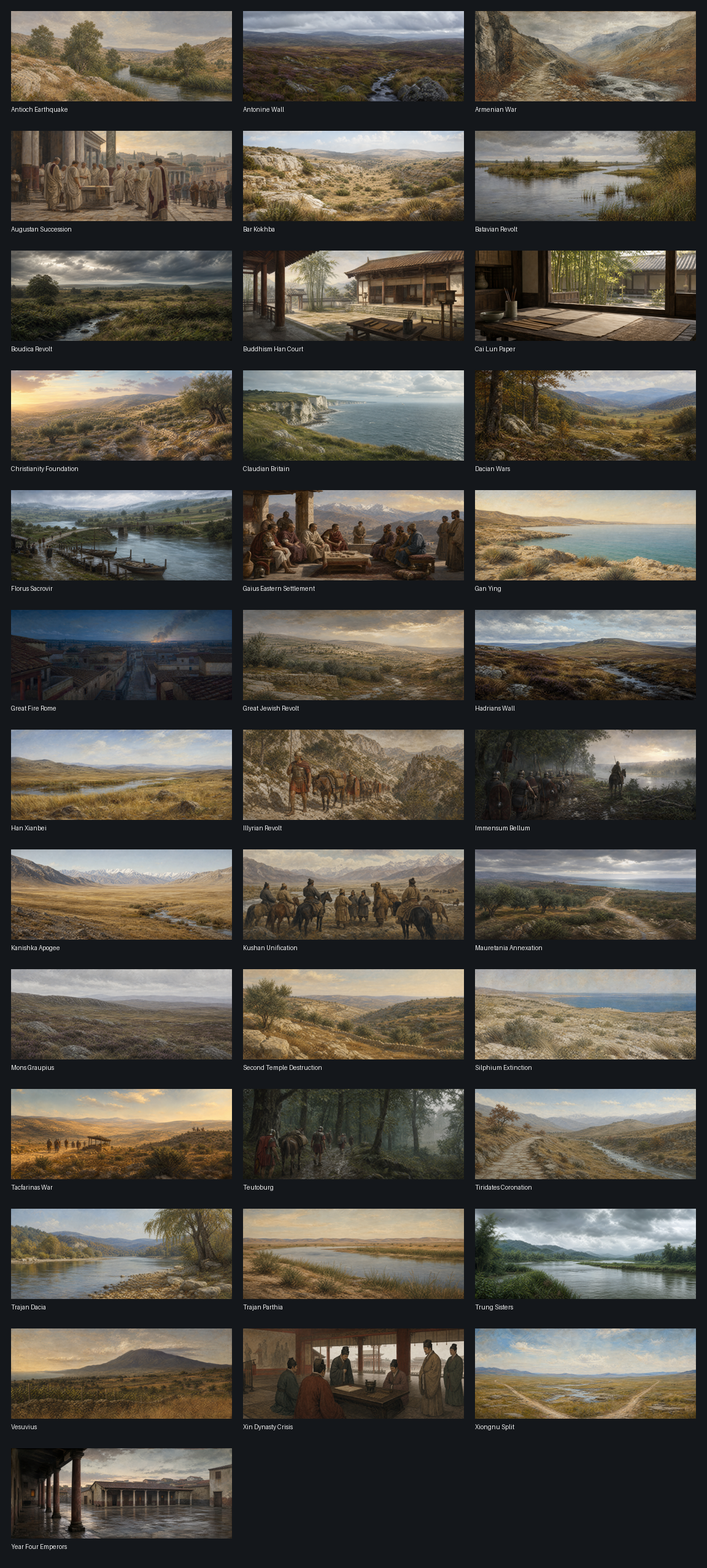
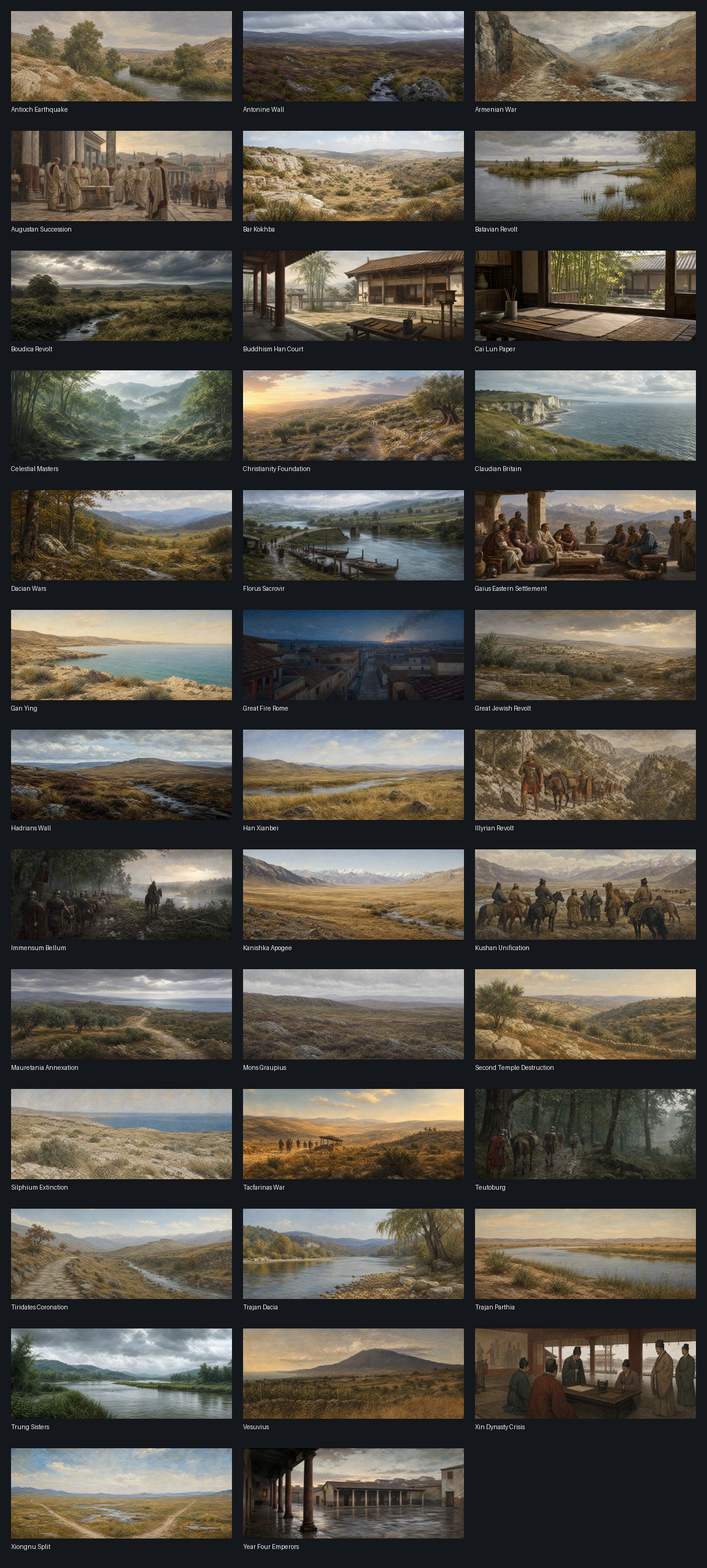
docs(m11): record Celestial Masters art

diff --git a/docs/m11/contact_sheet.html b/docs/m11/contact_sheet.html
@@ -9,6 +9,7 @@
     <figure><img src="../../assets_queue/generated/antq_boudica_revolt_1080x440.png" alt="Boudica Revolt"><figcaption>Boudica Revolt</figcaption></figure>
     <figure><img src="../../assets_queue/generated/antq_buddhism_han_court_1080x440.png" alt="Buddhism Han Court"><figcaption>Buddhism Han Court</figcaption></figure>
     <figure><img src="../../assets_queue/generated/antq_cai_lun_paper_1080x440.png" alt="Cai Lun Paper"><figcaption>Cai Lun Paper</figcaption></figure>
+    <figure><img src="../../assets_queue/generated/antq_celestial_masters_1080x440.png" alt="Celestial Masters"><figcaption>Celestial Masters</figcaption></figure>
     <figure><img src="../../assets_queue/generated/antq_christianity_foundation_1080x440.png" alt="Christianity Foundation"><figcaption>Christianity Foundation</figcaption></figure>
     <figure><img src="../../assets_queue/generated/antq_claudian_britain_1080x440.png" alt="Claudian Britain"><figcaption>Claudian Britain</figcaption></figure>
     <figure><img src="../../assets_queue/generated/antq_dacian_wars_1080x440.png" alt="Dacian Wars"><figcaption>Dacian Wars</figcaption></figure>

diff --git a/docs/TODO.md b/docs/TODO.md
@@ -225,7 +225,8 @@ after `make full` and its autonomous driver report are green.
 - [x] Generate, dimension-check, round-trip review, wire, and smoke-test the AD 127 Kanishka-apogee event illustration through a landscape-only Central-Asian highland treatment.
 - [x] Generate, dimension-check, round-trip review, wire, and smoke-test the AD 132 Bar Kokhba revolt event illustration through a landscape-only Judean limestone treatment.
 - [x] Generate, dimension-check, round-trip review, wire, and smoke-test the AD 142 Antonine Wall event illustration through a landscape-only northern-British moorland treatment.
-- [x] Render and review the maintained M11 event-art contact sheet (37 retained 1080x440 masters).
+- [x] Generate, dimension-check, round-trip review, wire, and smoke-test the AD 142 Celestial Masters event illustration through a landscape-only inland-Chinese woodland treatment.
+- [x] Render and review the maintained M11 event-art contact sheet (38 retained 1080x440 masters).
 - [ ] Reach event/decision targets; finish flags, icons, illustrations, loading/age art, localization, glossary, and credits.
 - [ ] Remove common-screen placeholders; run milestone gate and tag `M11-done`.
 

diff --git a/docs/m11/M11_CELESTIAL_MASTERS_ART.md b/docs/m11/M11_CELESTIAL_MASTERS_ART.md
@@ -1,0 +1,19 @@
+# M11 Celestial Masters illustration
+
+The retained source is `assets_queue/generated_sources/antq_celestial_masters_source.png`;
+the 1080x440 master is `assets_queue/generated/antq_celestial_masters_1080x440.png`;
+the game-facing BC7 DDS is
+`main_menu/gfx/interface/illustrations/event/antq_celestial_masters.dds`.
+
+The text-free image is generic inland-Chinese woodland context: an empty forested
+foothill valley, bamboo, natural stream, mossy stone, and distant misty ridges.
+It identifies no person, movement, polity, religious material, settlement, date,
+or outcome. It is not a reconstruction of the Celestial Masters movement or its
+religious practice.
+
+`EVENT_IMAGES` in `tools/m10_second_century.py` owns the
+`antq_m10_second.2009` link. The inspected 1080x440 BC7 texture passed
+`make validate` and enabled-mod `make smoke` with zero new error-log lines.
+
+Sources: ANTIQVITAS master plan sections 8.3, 9, 11, and 20; local EU5
+country-event image contract.

diff --git a/docs/ASSUMPTIONS.md b/docs/ASSUMPTIONS.md
@@ -1,5 +1,15 @@
 # Historical Assumptions
 
+## 2026-07-20 - Celestial-Masters art is landscape-only inland-Chinese context
+
+The image is an unoccupied inland-Chinese woodland valley with bamboo, a natural
+stream, mossy stone, and distant misty ridges. It identifies no person, movement,
+polity, temple, shrine, religious material, animal, action, date, or outcome. It
+deliberately excludes Daoist symbols, talismans, ritual material, priests, sacred
+objects, and religious buildings; it is not a reconstruction of the Celestial
+Masters movement or its religious practice. Sources weighed: P8.3; plan sections
+9, 11, and 20. [secure broad regional context; illustrative composition only]
+
 ## 2026-07-20 - Antonine-Wall art is landscape-only northern-British context
 
 The image is an unoccupied northern-British moor of heather, rough grass,

diff --git a/docs/PROGRESS.md b/docs/PROGRESS.md
@@ -1,5 +1,15 @@
 # Progress
 
+## 2026-07-20 - M11 Celestial Masters event illustration
+
+- Added a reviewed, landscape-only inland-Chinese woodland image to the AD 142
+  Celestial Masters current through the generated event-image contract.
+- The engine-sized BC7 texture was round-trip inspected; `make validate` and
+  enabled-mod smoke are green with zero new error-log lines. The maintained M11
+  contact sheet now has thirty-eight retained event masters.
+
+Next: continue the M11 later-century art queue and source-led M5/M6 audit.
+
 ## 2026-07-20 - M11 Antonine Wall event illustration
 
 - Added a reviewed, landscape-only northern-British moorland image to the AD

diff --git a/docs/m11/M11_CONTACT_SHEET.md b/docs/m11/M11_CONTACT_SHEET.md
@@ -5,7 +5,7 @@ every retained `assets_queue/generated/antq_*_1080x440.png` master. The HTML
 is the browsable review surface; the PNG is the compact visual record suitable
 for inclusion in the M11 milestone report.
 
-The current review contains thirty-seven 1080x440 event masters. It was inspected for
+The current review contains thirty-eight 1080x440 event masters. It was inspected for
 omissions, clipped labels, incorrect aspect ratios, readable text, watermarks,
 or obvious anachronistic material. Individual asset records retain the more
 specific historical-scope findings and engine checks.
